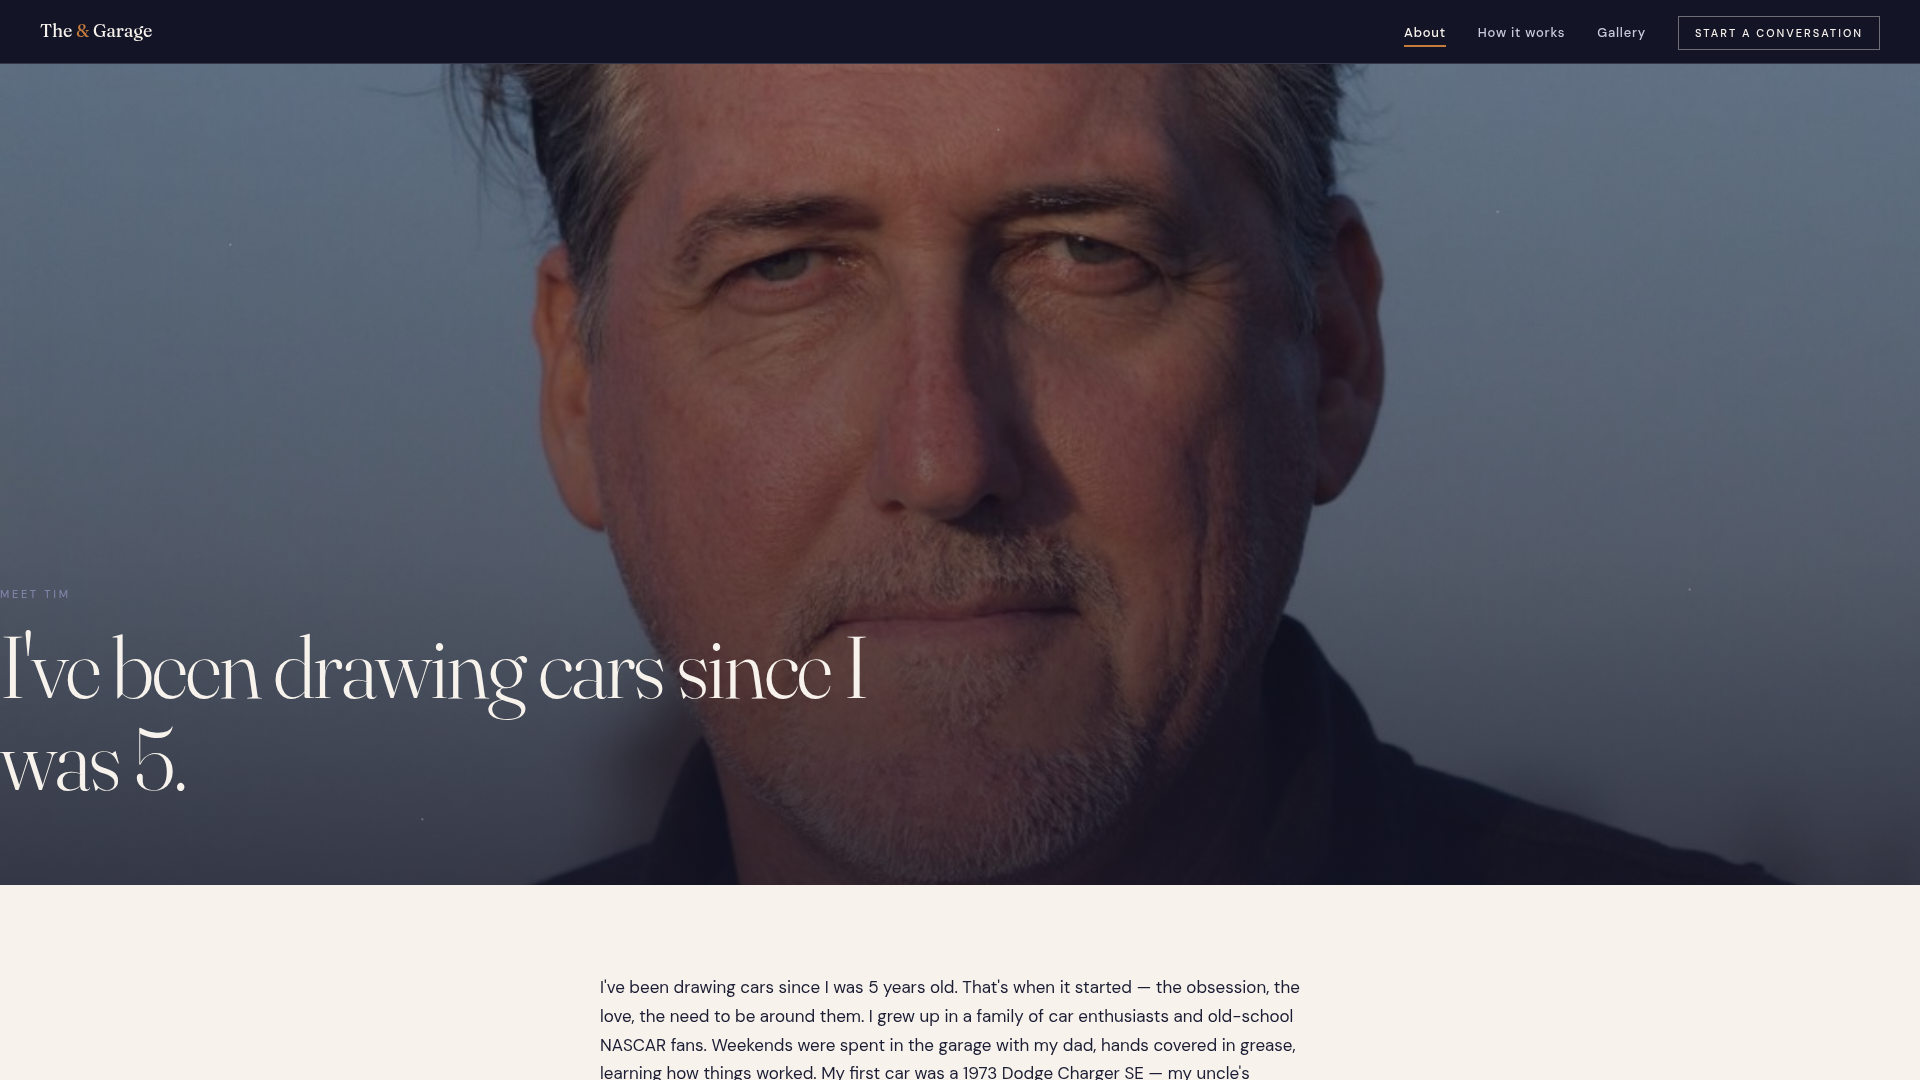
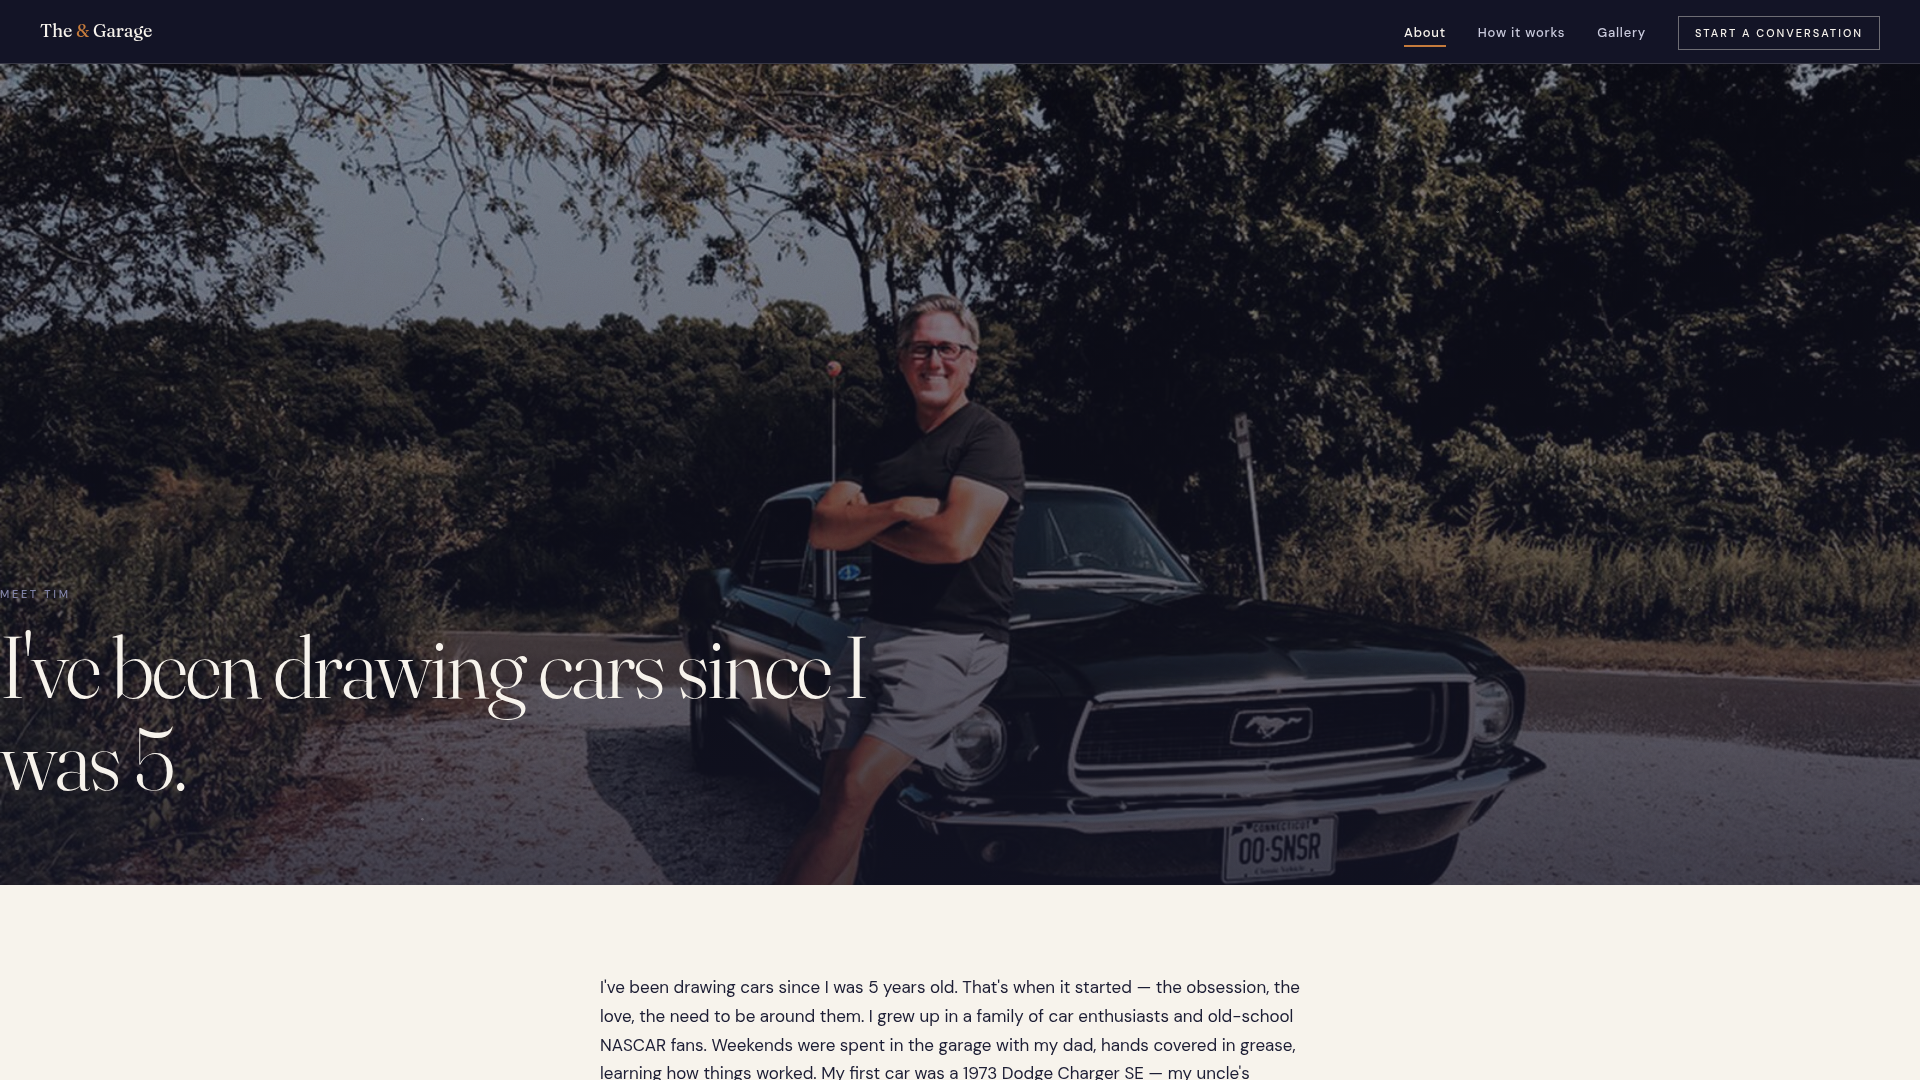
Update the hero image and description for the About page
Replace the existing About page hero image with a new one and update its alt text.

Replit-Commit-Author: Agent
Replit-Commit-Session-Id: 7834f045-9c8e-4b73-bc60-25ca04b07cf5
Replit-Commit-Checkpoint-Type: full_checkpoint
Replit-Commit-Event-Id: cc5bb410-1b21-4cf9-aa67-905963b2a526
Replit-Commit-Screenshot-Url: https://storage.googleapis.com/screenshot-production-us-central1/91c96298-ec8f-4026-ad1f-792533a0aa68/7834f045-9c8e-4b73-bc60-25ca04b07cf5/VUUoIlB
Replit-Helium-Checkpoint-Created: true

diff --git a/about/index.html b/about/index.html
@@ -69,7 +69,7 @@
        1. HERO — Tim's portrait
   ════════════════════════════════════════════════ -->
   <header class="hero hero-about">
-    <img class="hero-image" src="/img/hero/about.jpg" alt="Tim Young, founder of The &amp; Garage, with one of his cars" loading="eager" width="1021" height="1021">
+    <img class="hero-image" src="/img/hero/about.jpg" alt="Tim Young leaning against his black 1968 Ford Mustang at a gravel pull-off, summer trees in the background." loading="eager" width="1600" height="1200">
     <div class="veil"></div>
     <div class="constellation"></div>
 
